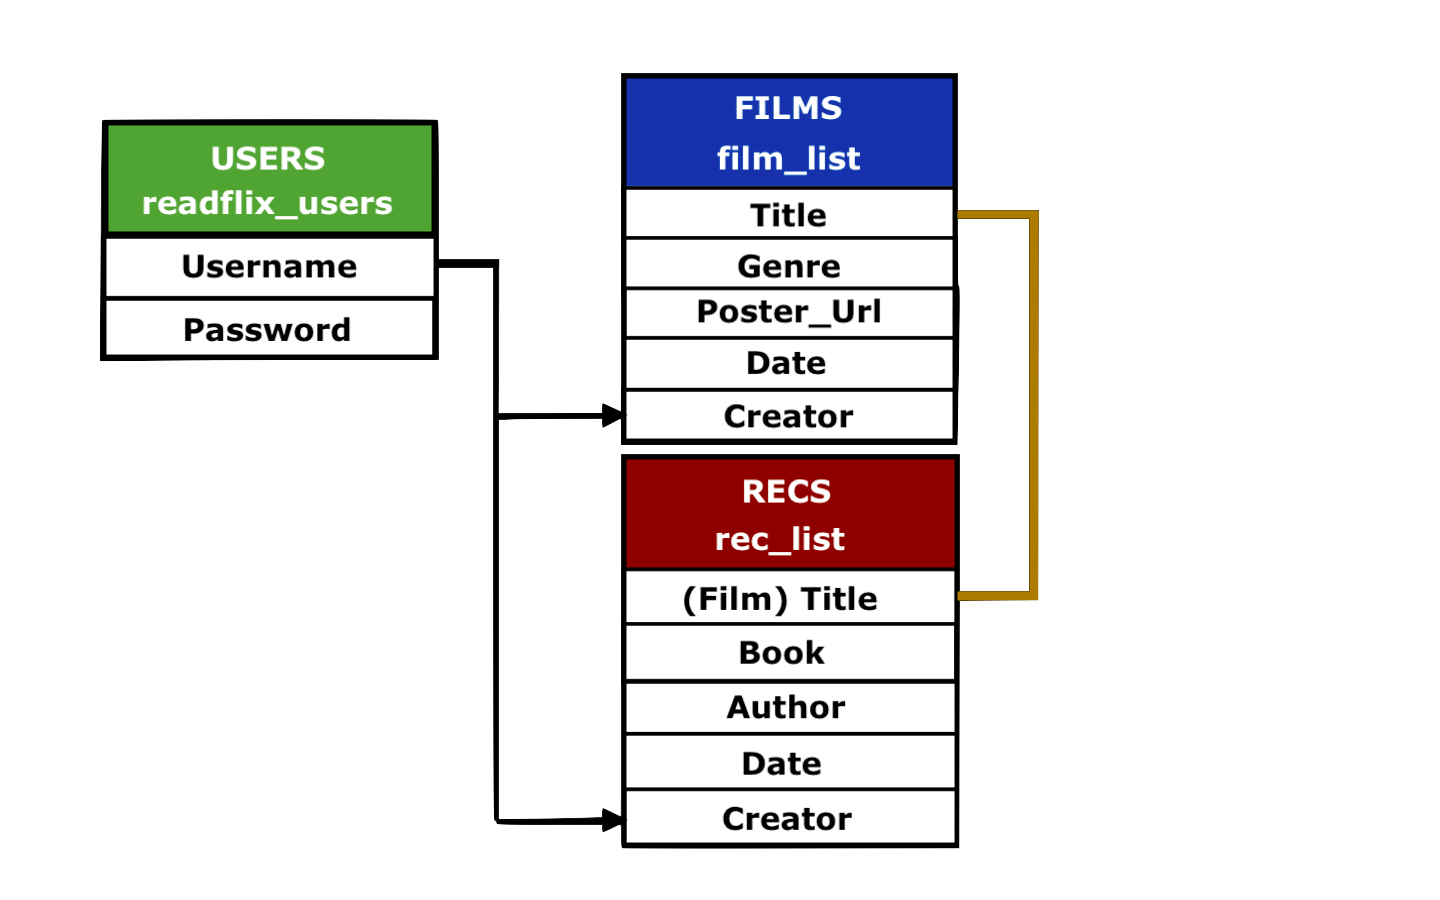
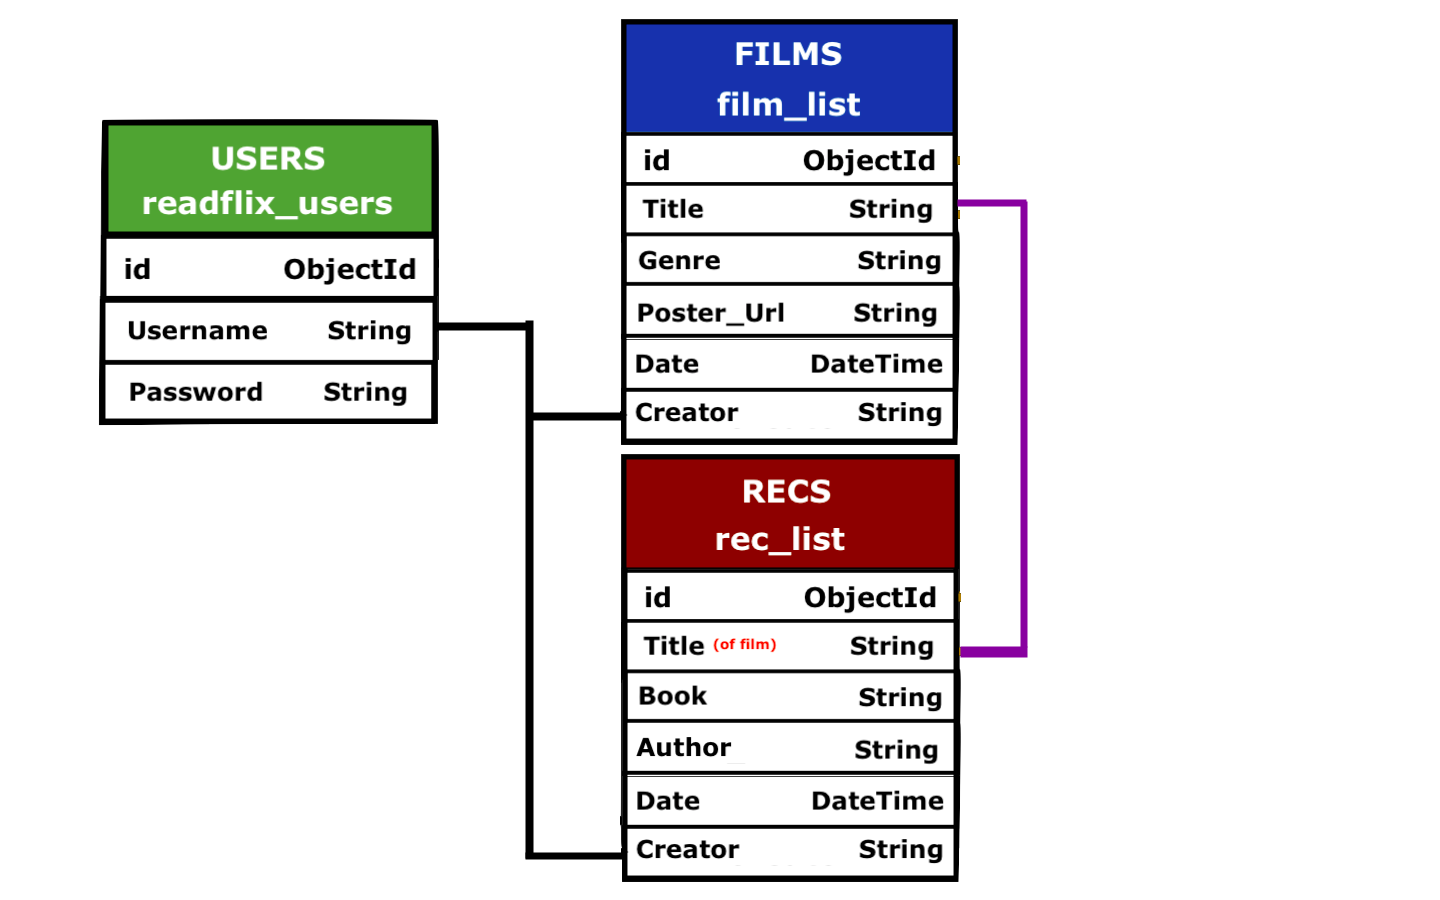
Added finishing touches to the readMe file and turned off site debugger

Changed region(s): [[0.0625, 0.0, 0.7188, 0.9956]]

diff --git a/app.py b/app.py
@@ -460,4 +460,4 @@ def logout():
 if __name__ == "__main__":
     app.run(host=os.environ.get("IP"),
             port=int(os.environ.get("PORT")),
-            debug=True)
+            debug=False)

diff --git a/README.md b/README.md
@@ -47,6 +47,9 @@ below.
 
 <img src="static/img/db_schema.png">
 
+Each user has a name and password. When a user creates a film, their name is stored in the film. Likewise when a user 
+creates a recommendation for a film their name, as well as the film's title, is stored in the recommendation. 
+
 # Features
 
 - Mobile, desktop, and tablet scalable.
@@ -73,7 +76,7 @@ below.
 
 - [FontAwesome](https://fontawesome.com/): Provided icons for certain features.
 
-- [Photoshop](https://photoshop.com/en): This was used to design the site's wireframes. 
+- [Photoshop](https://photoshop.com/en): This was used to design the site's wireframes and database schema. 
 
 - [FontMeme](https://www.fontmeme.com/): This was used to design the logo. 
 
